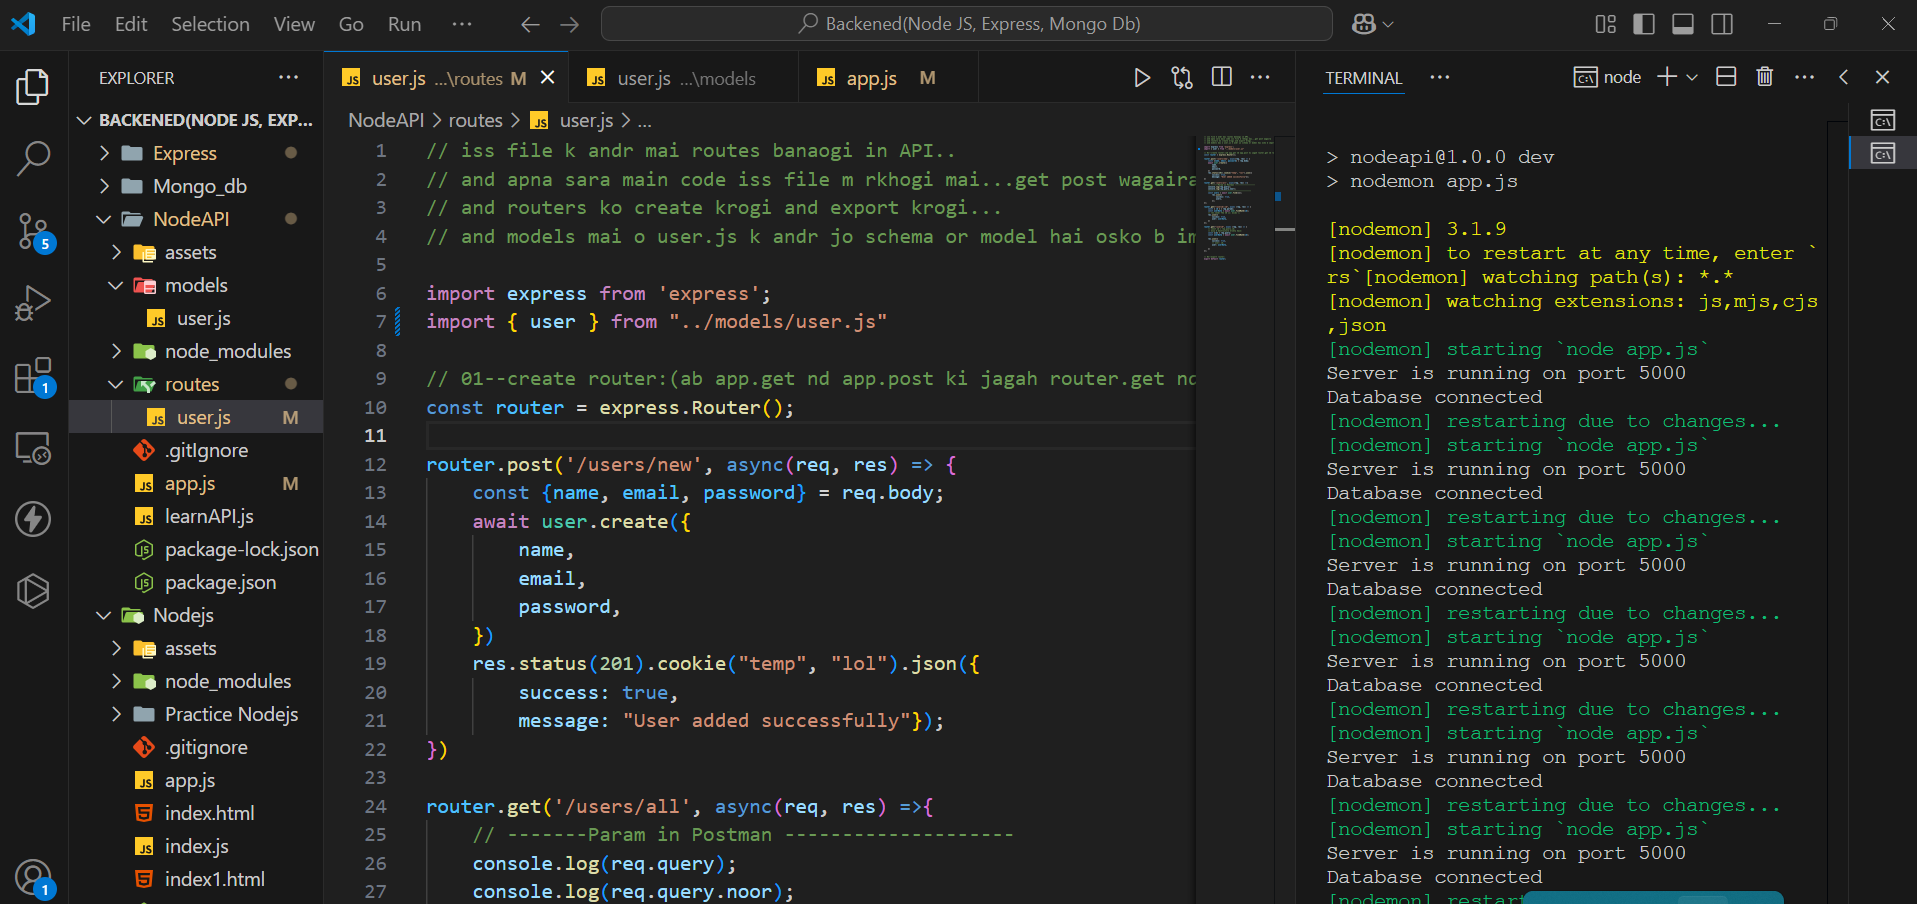
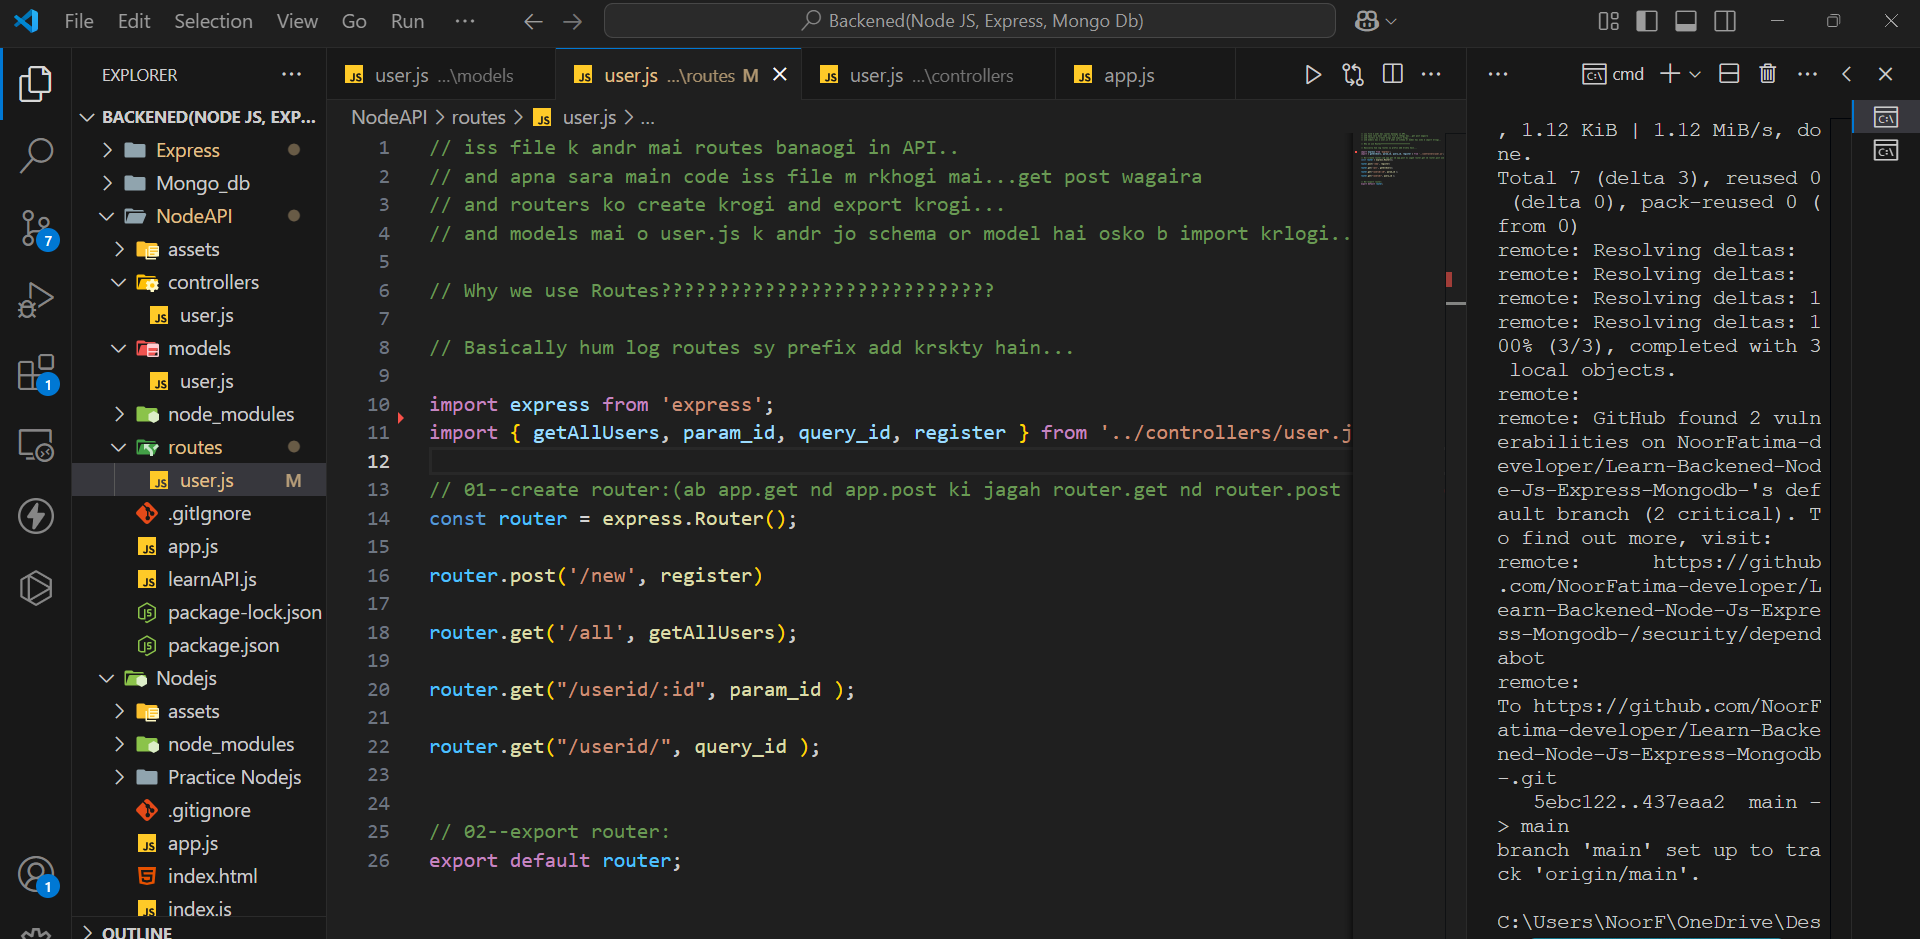
code is added

diff --git a/NodeAPI/app.js b/NodeAPI/app.js
@@ -1,8 +1,6 @@
 // Iss file k andr listerner hai and db ka listerner hai...
 // lkin schema or model jo h na wo models mai user.js mai hai...
-
 import express from 'express';
-import mongoose from'mongoose';
 // import user.js here..
 import userRouter from "../NodeAPI/routes/user.js"
 
@@ -10,18 +8,11 @@ const app = express();
 
 // Middleware:
 app.use(express.json());
+
 // use userRouter:(and router ko hum log use hi islye krty hain ta k hum log prefix add krskain)
 // jesy mai chahti o k routers/user k andr jutny b get post hain or onka jo b router hai hr 1 k start mai /users daldo 
 // iss sy ye hoga k mjy manually ja k ni add krna pryga automatically add o jyega islye meny wahan sbsy remove krk yahan add krdea hai...
-
 app.use("/users" ,userRouter);
-
-// DB connection:
-mongoose.connect("mongodb://127.0.0.1:27017/", {
-    dbName: "backendapi",
-}).then(() => console.log("Database connected"))
-.catch((e) => console.log(e));
-
 
 app.get('/', (req, res) => {
     res.send('Hello World!');  

diff --git a/NodeAPI/controllers/user.js b/NodeAPI/controllers/user.js
@@ -15,7 +15,6 @@ export const getAllUsers = async(req, res) =>{
         });
 }
 
-
 export const register = async(req, res) => {
     const {name, email, password} = req.body;
     await user.create({
@@ -27,8 +26,6 @@ export const register = async(req, res) => {
         success: true,
         message: "User added successfully"});
 }
-
-
 
 export const param_id = async (req, res) => {
     const { id } = req.params;

diff --git a/NodeAPI/routes/user.js b/NodeAPI/routes/user.js
@@ -8,7 +8,6 @@
 // Basically hum log routes sy prefix add krskty hain...
 
 import express from 'express';
-import { user } from "../models/user.js"
 import { getAllUsers, param_id, query_id, register } from '../controllers/user.js';
 
 // 01--create router:(ab app.get nd app.post ki jagah router.get nd router.post use krlo..)

diff --git a/NodeAPI/data/database.js b/NodeAPI/data/database.js
@@ -1,0 +1,9 @@
+import mongoose from "mongoose";
+
+// DB connection:
+mongoose.connect("mongodb://127.0.0.1:27017/", {
+    dbName: "backendapi",
+}).then(() => console.log("Database connected"))
+.catch((e) => console.log(e));
+
+
